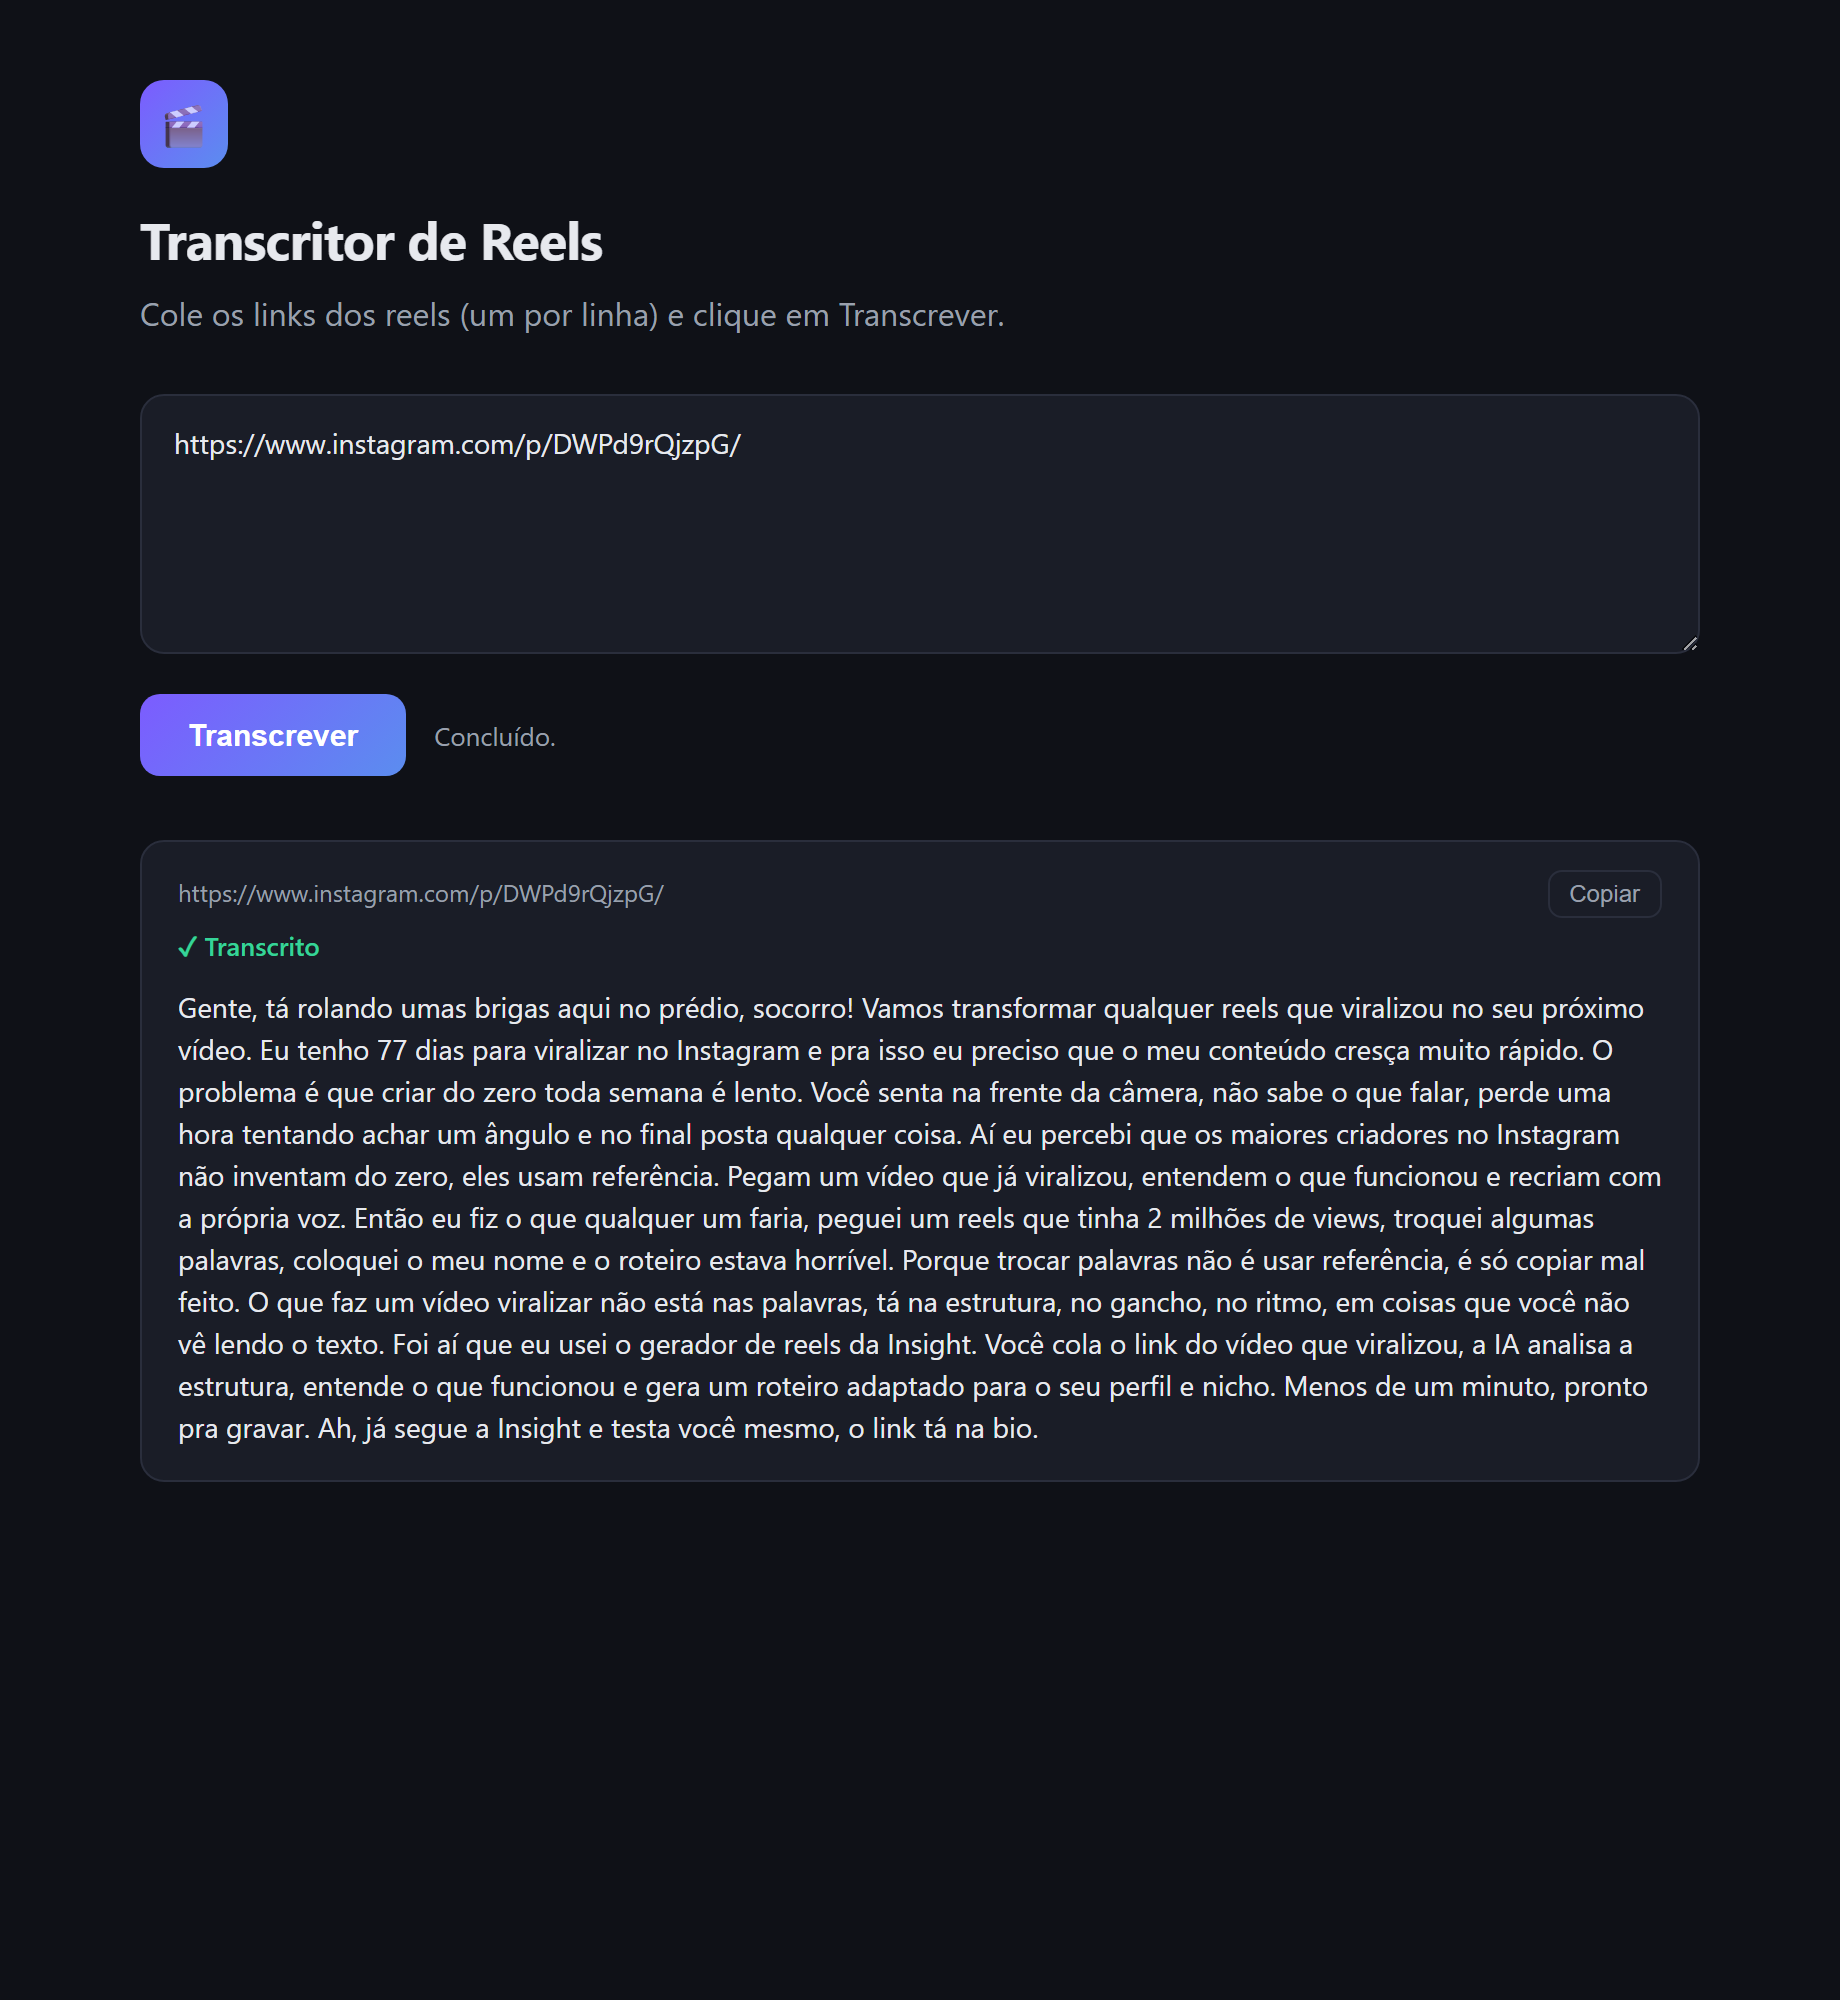
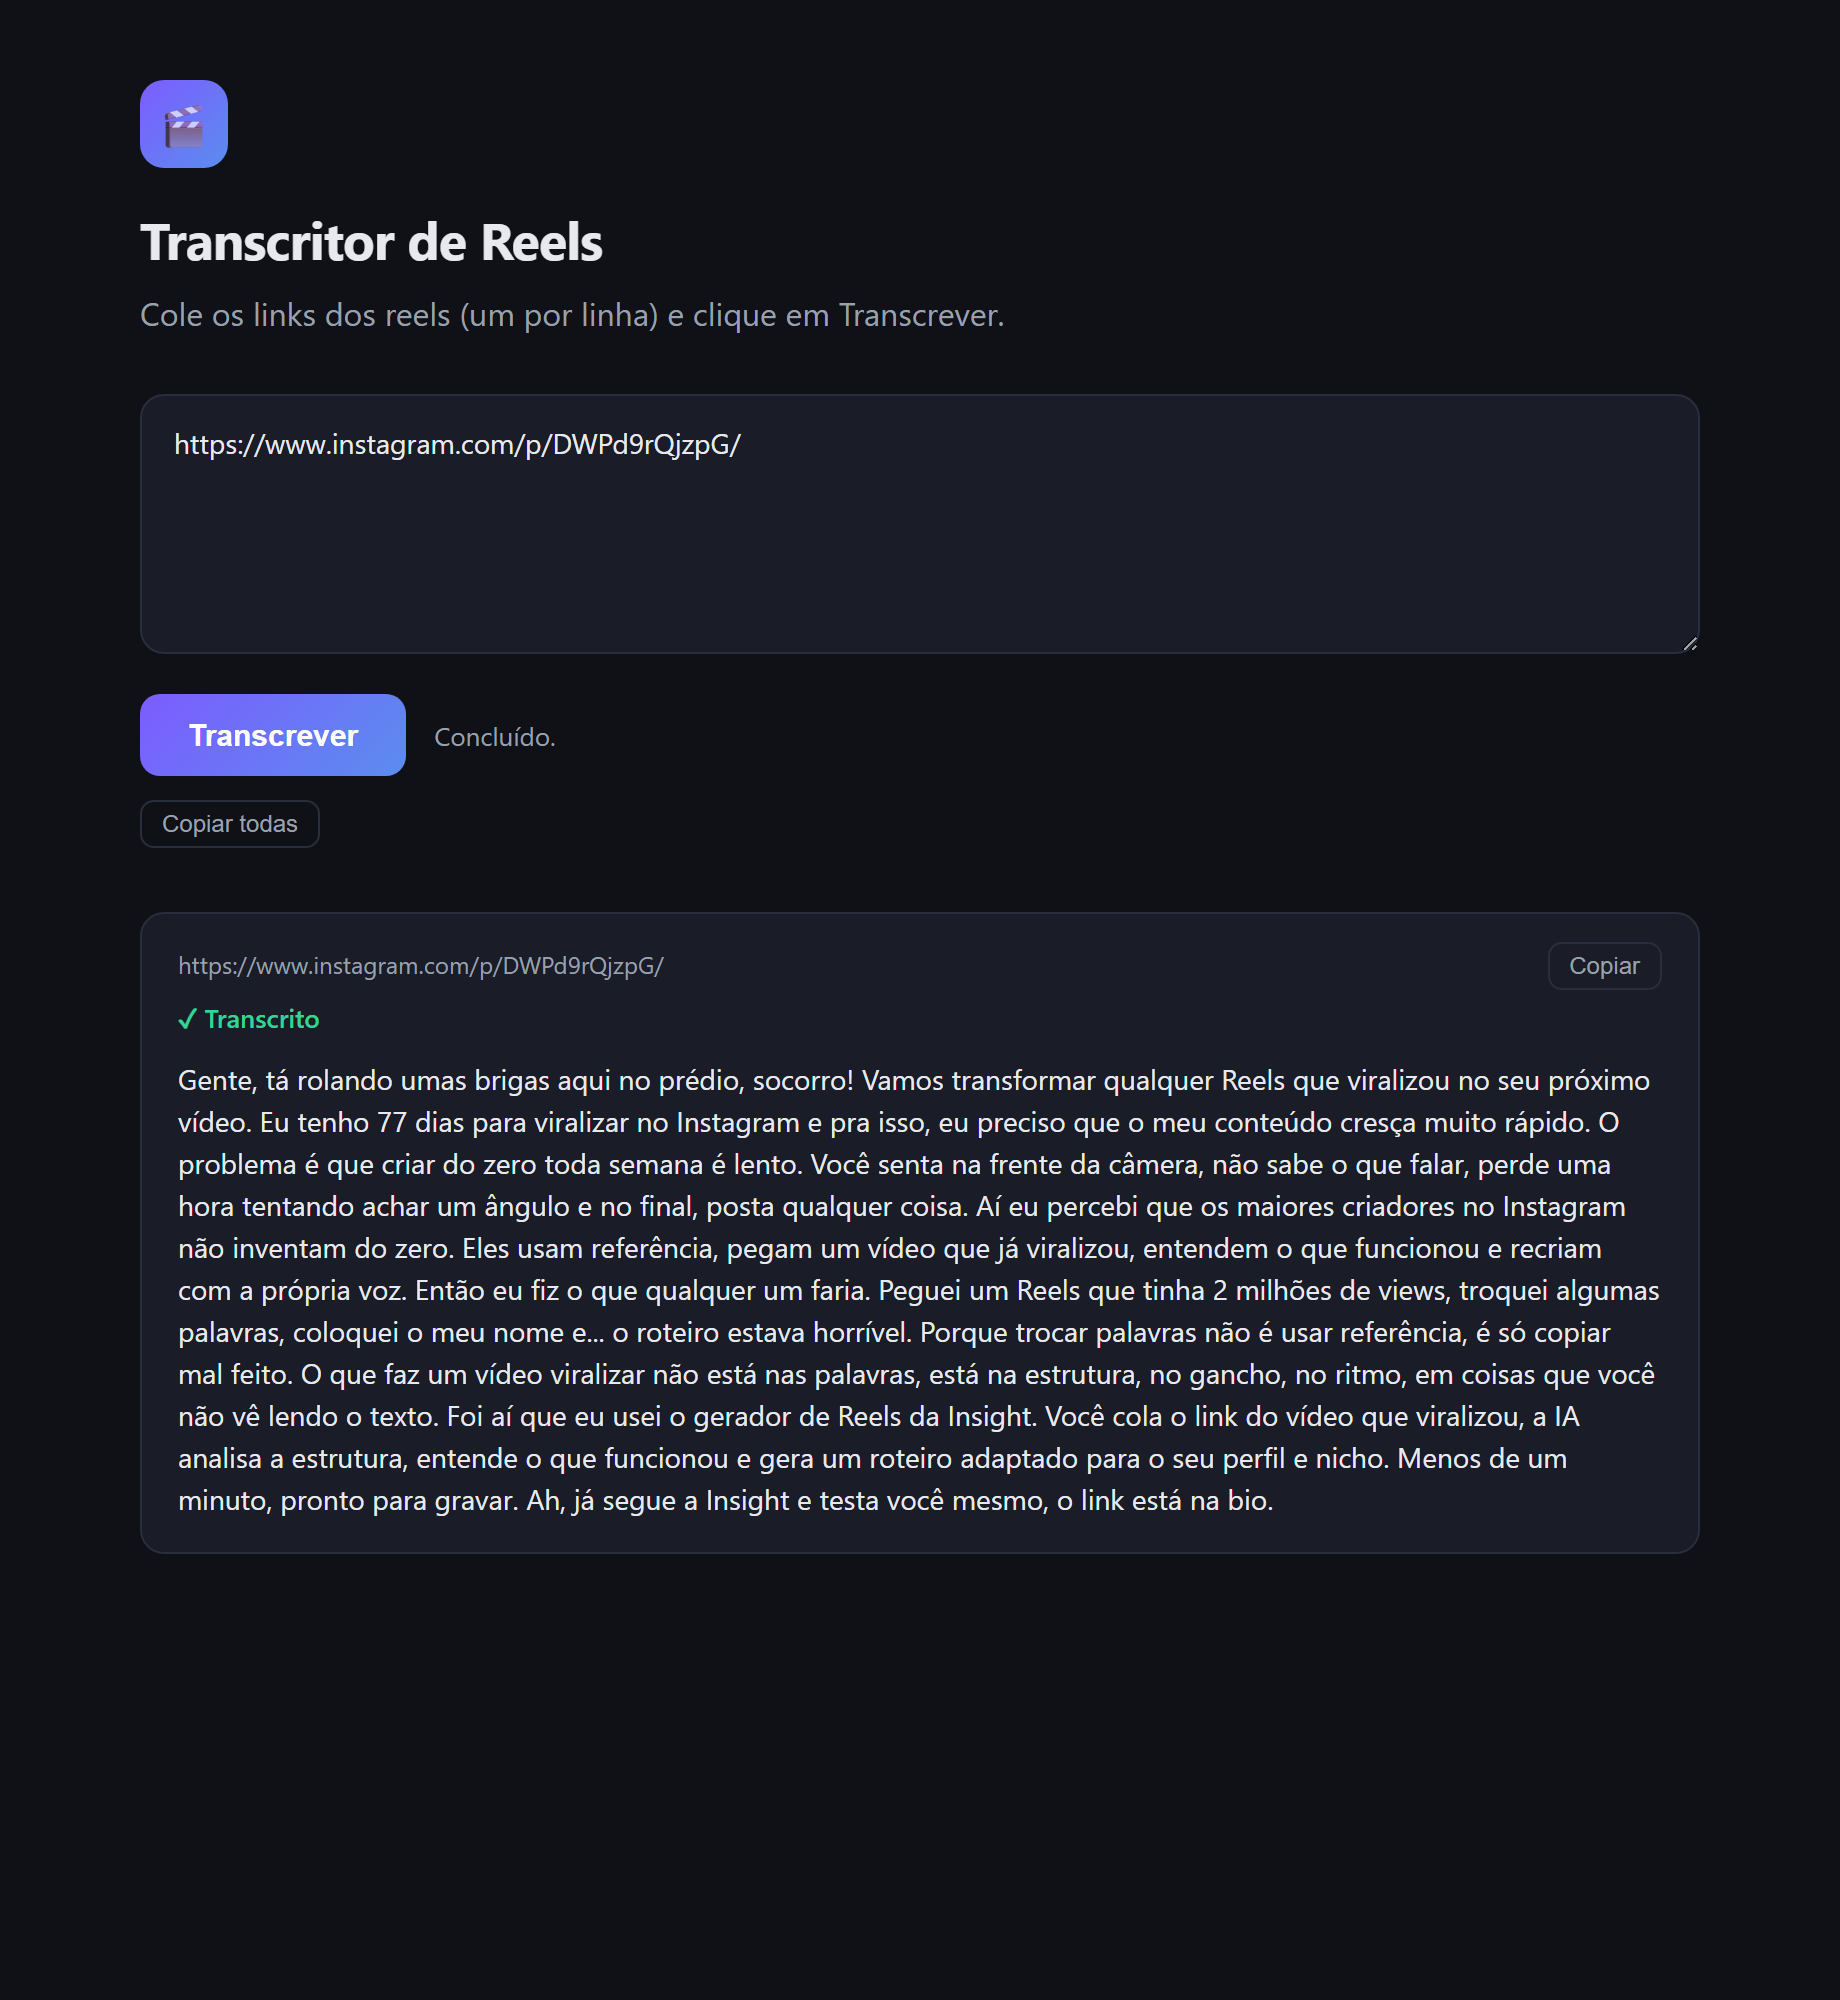
Facilita onboarding no Mac e corrige bug de console no Windows
- App cria o .env sozinho e pede a chave da OpenAI no terminal na primeira
  execucao, eliminando o passo manual de achar/renomear o .env.example oculto.
- Corrige UnicodeEncodeError no console legado do Windows (cp1252) ao imprimir
  caracteres fora da codificacao.
- iniciar-mac.command remove a marca de quarentena do Gatekeeper nas proximas
  aberturas.
- Adiciona botao "Copiar todas" na interface (prometido no README).
- README: novo fluxo da chave, instrucoes corretas de Gatekeeper no Mac e dica
  para abrir o .env oculto. Screenshot atualizado.

Changed region(s): [[0.0929, 0.403, 0.8984, 0.775]]

diff --git a/app.py b/app.py
@@ -7,6 +7,8 @@ links (um por linha), clique em Transcrever e os resultados aparecem um a um.
 
 import json
 import os
+import shutil
+import sys
 import tempfile
 import threading
 import webbrowser
@@ -209,6 +211,10 @@ https://www.instagram.com/reel/..."></textarea>
       <span class="hint" id="hint">Processa um link de cada vez.</span>
     </div>
 
+    <div class="row" id="bulkRow" style="display:none">
+      <button id="copyAll" class="copy">Copiar todas</button>
+    </div>
+
     <div id="results"></div>
   </div>
 
@@ -217,11 +223,26 @@ const go = document.getElementById('go');
 const linksEl = document.getElementById('links');
 const resultsEl = document.getElementById('results');
 const hintEl = document.getElementById('hint');
+const bulkRow = document.getElementById('bulkRow');
+const copyAll = document.getElementById('copyAll');
 
 function cardId(i) { return 'card-' + i; }
 
+copyAll.addEventListener('click', () => {
+  const blocks = [...document.querySelectorAll('.card.ok')].map(c => {
+    const url = (c.querySelector('.url') || {}).textContent || '';
+    const txt = (c.querySelector('.text') || {}).textContent || '';
+    return url + '\\n' + txt;
+  });
+  if (!blocks.length) return;
+  navigator.clipboard.writeText(blocks.join('\\n\\n----------\\n\\n'));
+  copyAll.textContent = 'Copiado!';
+  setTimeout(() => { copyAll.textContent = 'Copiar todas'; }, 1500);
+});
+
 function renderPending(links) {
   resultsEl.innerHTML = '';
+  bulkRow.style.display = 'none';
   links.forEach((url, i) => {
     const div = document.createElement('div');
     div.className = 'card pending';
@@ -247,6 +268,7 @@ function updateCard(r) {
       navigator.clipboard.writeText(r.text || '');
       div.querySelector('.copy').textContent = 'Copiado!';
     });
+    bulkRow.style.display = 'flex';
   } else {
     div.className = 'card error';
     div.innerHTML = `
@@ -350,7 +372,75 @@ def open_browser():
     webbrowser.open("http://localhost:5000")
 
 
+APP_DIR = os.path.dirname(os.path.abspath(__file__))
+ENV_PATH = os.path.join(APP_DIR, ".env")
+ENV_EXAMPLE_PATH = os.path.join(APP_DIR, ".env.example")
+
+
+def _write_api_key(key):
+    """Grava/atualiza a linha OPENAI_API_KEY no .env preservando o resto."""
+    lines = []
+    if os.path.exists(ENV_PATH):
+        with open(ENV_PATH, "r", encoding="utf-8") as f:
+            lines = f.read().splitlines()
+    out, found = [], False
+    for line in lines:
+        if line.startswith("OPENAI_API_KEY="):
+            out.append("OPENAI_API_KEY=" + key)
+            found = True
+        else:
+            out.append(line)
+    if not found:
+        out.append("OPENAI_API_KEY=" + key)
+    with open(ENV_PATH, "w", encoding="utf-8") as f:
+        f.write("\n".join(out) + "\n")
+
+
+def ensure_env_file():
+    """Garante um .env com a chave preenchida; pede a chave no terminal se faltar.
+
+    Resolve o atrito do macOS: o usuário não precisa achar/renomear o arquivo
+    oculto .env.example — o app cria o .env e coleta a chave na primeira vez.
+    """
+    if not os.path.exists(ENV_PATH):
+        if os.path.exists(ENV_EXAMPLE_PATH):
+            shutil.copyfile(ENV_EXAMPLE_PATH, ENV_PATH)
+        else:
+            with open(ENV_PATH, "w", encoding="utf-8") as f:
+                f.write("OPENAI_API_KEY=\nCOOKIES_FROM_BROWSER=\n")
+
+    if OPENAI_API_KEY:
+        return
+
+    # Só dá para perguntar se há um terminal interativo. Em execução sem
+    # terminal, segue em frente (a interface mostra o erro de chave ausente).
+    if not (sys.stdin and sys.stdin.isatty()):
+        return
+
+    print("")
+    print("=== Configuração inicial ===")
+    print("Cole sua chave da OpenAI (começa com sk-...) e tecle Enter:")
+    try:
+        key = input("> ").strip()
+    except EOFError:
+        key = ""
+    if key:
+        _write_api_key(key)
+        # Atualiza para este processo (a interface usa estas variáveis globais).
+        globals()["OPENAI_API_KEY"] = key
+        print("Chave salva no arquivo .env.\n")
+    else:
+        print("Nenhuma chave informada — você pode colá-la depois no arquivo .env.\n")
+
+
 if __name__ == "__main__":
+    # No console legado do Windows (cp1252/cp850), caracteres fora da codificação
+    # quebrariam os prints; tolera-os em vez de derrubar o app.
+    try:
+        sys.stdout.reconfigure(errors="replace")
+    except Exception:
+        pass
+    ensure_env_file()
     # Abre o navegador automaticamente assim que o servidor sobe.
     threading.Timer(1.2, open_browser).start()
     app.run(host="127.0.0.1", port=5000, debug=False)

diff --git a/readme.md b/readme.md
@@ -51,23 +51,11 @@ A chave é como uma "senha" que liga o app à OpenAI. Cada pessoa usa a sua pró
 4. Clique em **"Create new secret key"**, dê um nome qualquer e confirme.
 5. **Copie a chave na hora.** Ela aparece **uma única vez** — se fechar a janela, terá que criar outra. A chave começa com `sk-...`.
 
-### Passo 4 — Colocar a chave no app
+### Passo 4 — Deixar a chave à mão (o app pede sozinho)
 
-1. Abra a pasta do app.
-2. Encontre o arquivo chamado **`.env.example`**.
-3. Faça uma **cópia** desse arquivo e renomeie a cópia para **`.env`** (ou seja, tire o `.example` do nome).
-4. Abra o arquivo `.env` com um editor de texto simples (Bloco de Notas no Windows, TextEdit no Mac).
-5. Você verá uma linha assim:
-   ```
-   OPENAI_API_KEY=coloque-sua-chave-aqui
-   ```
-   Troque `coloque-sua-chave-aqui` pela chave que você copiou. Deve ficar assim:
-   ```
-   OPENAI_API_KEY=sk-suachavedeverdadeaqui
-   ```
-6. Salve o arquivo.
+Você **não precisa** mexer em nenhum arquivo de configuração. Na **primeira vez** que abrir o app (próxima seção), ele vai **pedir a sua chave ali mesmo, na janela preta** — é só colar e teclar Enter. O app guarda a chave sozinho e nunca mais pergunta.
 
-> **Dica:** o arquivo precisa se chamar exatamente `.env`, sem nada depois. Se o Bloco de Notas insistir em salvar como `.env.txt`, na hora de salvar escolha "Tipo: Todos os arquivos".
+Então, por enquanto, é só deixar a chave que você copiou no Passo 3 **à mão** (por exemplo, colada num bloco de notas temporário) para usar daqui a pouco.
 
 Pronto — a configuração acabou. Você nunca mais precisa repetir os passos 1 a 4.
 
@@ -79,11 +67,22 @@ Pronto — a configuração acabou. Você nunca mais precisa repetir os passos 1
 
 - **No Windows:** dê dois cliques no arquivo **`iniciar-windows.bat`**.
 - **No Mac:** dê dois cliques no arquivo **`iniciar-mac.command`**.
-  - Na primeiríssima vez, o Mac pode bloquear por segurança. Se isso acontecer, clique no arquivo com o **botão direito → Abrir** e confirme. Depois disso ele abre normal.
+
+> **Mac — liberar na primeira vez (importante).** Como o app vem da internet, o macOS bloqueia por segurança e mostra um aviso tipo *"a Apple não pode verificar se este item contém malware"*. Isso é **esperado** e você libera **só uma vez**:
+>
+> 1. Dê o duplo-clique no `iniciar-mac.command` (ele será bloqueado — pode fechar o aviso).
+> 2. Vá em ** → Ajustes do Sistema → Privacidade e Segurança**.
+> 3. Role até o fim: vai aparecer *"iniciar-mac.command foi bloqueado…"* com o botão **"Abrir Mesmo Assim"**. Clique nele, confirme com a senha/Touch ID e clique **"Abrir"** no aviso seguinte.
+>
+> A partir daí o app abre normalmente no duplo-clique.
+>
+> **Jeito mais garantido (pelo Terminal):** abra o **Terminal** (tecle `Cmd + Espaço`, digite "Terminal" e Enter), escreva `xattr -cr ` (com um espaço no final), **arraste a pasta do app** para dentro da janela do Terminal e tecle **Enter**. Depois é só dar o duplo-clique no `iniciar-mac.command`.
 
 Na **primeira vez**, o app demora alguns minutos preparando tudo — é normal, é só uma vez. Depois ele abre rápido.
 
-Quando estiver pronto, o navegador abre sozinho na tela do app. Vai aparecer também uma janela preta (o "motor" do app) — **deixe ela aberta** enquanto estiver usando.
+**Ainda na primeira vez, a janela preta vai pedir a sua chave da OpenAI** (a do Passo 3). Cole a chave, tecle **Enter**, e pronto — ela fica guardada e ele não pergunta mais.
+
+Quando terminar de preparar, o navegador abre sozinho na tela do app. A janela preta (o "motor" do app) continua aberta — **deixe ela aberta** enquanto estiver usando.
 
 ### Transcrever os reels
 
@@ -100,21 +99,25 @@ Quando terminar, é só **fechar a janela preta**. Para usar de novo depois, bas
 
 ## Problemas comuns
 
+**O Mac diz que "não pode verificar" / bloqueou o `iniciar-mac.command`**
+É a proteção normal do macOS para arquivos vindos da internet — não é vírus. Libere **uma vez** seguindo os passos de **"Mac — liberar na primeira vez"** na seção [Abrir o app](#abrir-o-app). Depois disso o app abre sempre no duplo-clique.
+
 **"O Instagram pediu login" / o reel não baixa**
 O Instagram às vezes exige uma conta logada para liberar o download. Para resolver:
 1. No navegador, entre normalmente na sua conta do Instagram (de preferência, uma conta secundária).
-2. Abra o arquivo `.env` e adicione esta linha:
+2. Abra o arquivo `.env` (ele fica na pasta do app; foi criado automaticamente na primeira vez) e troque a linha `COOKIES_FROM_BROWSER=` por:
    ```
    COOKIES_FROM_BROWSER=chrome
    ```
    Troque `chrome` pelo navegador que você usa: `firefox`, `safari` ou `edge`.
+   - **No Mac**, o `.env` é um arquivo oculto. Para vê-lo, abra a pasta do app no Finder e tecle `Cmd + Shift + .` (ponto). Abra-o com o TextEdit.
 3. **Feche o navegador** e abra o app de novo.
 
 **"Chave inválida" ou erro de autenticação**
 Confira o arquivo `.env`: a chave deve estar completa, sem espaços sobrando, e a conta da OpenAI precisa ter crédito disponível (Passo 3).
 
 **Dei dois cliques e nada acontece**
-- No Mac: clique com o botão direito no arquivo de iniciar → **Abrir**.
+- No Mac: provavelmente é o bloqueio de segurança — veja o item acima ("não pode verificar") e libere o app uma vez.
 - No Windows: confirme que o Python foi instalado com a caixinha **"Add Python to PATH"** marcada. Se não marcou, reinstale o Python marcando essa opção.
 
 **Um reel deu erro mas os outros funcionaram**
